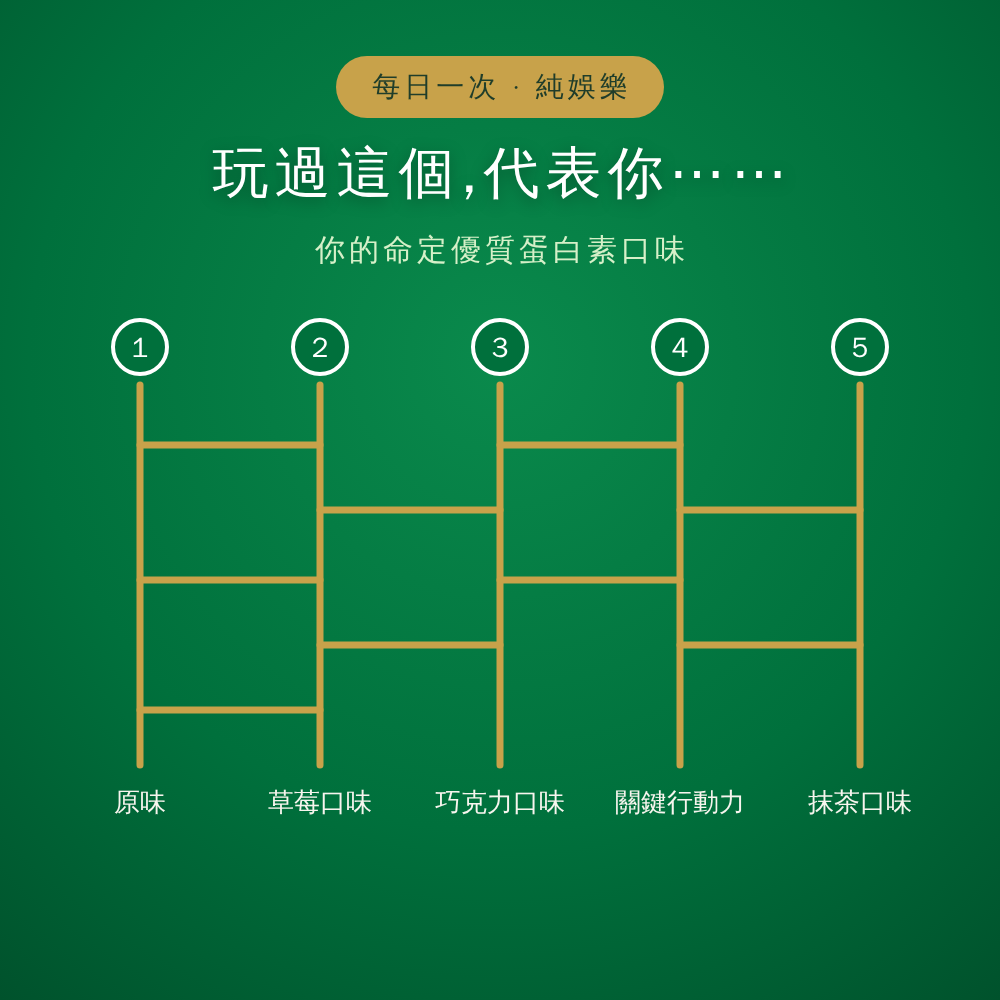
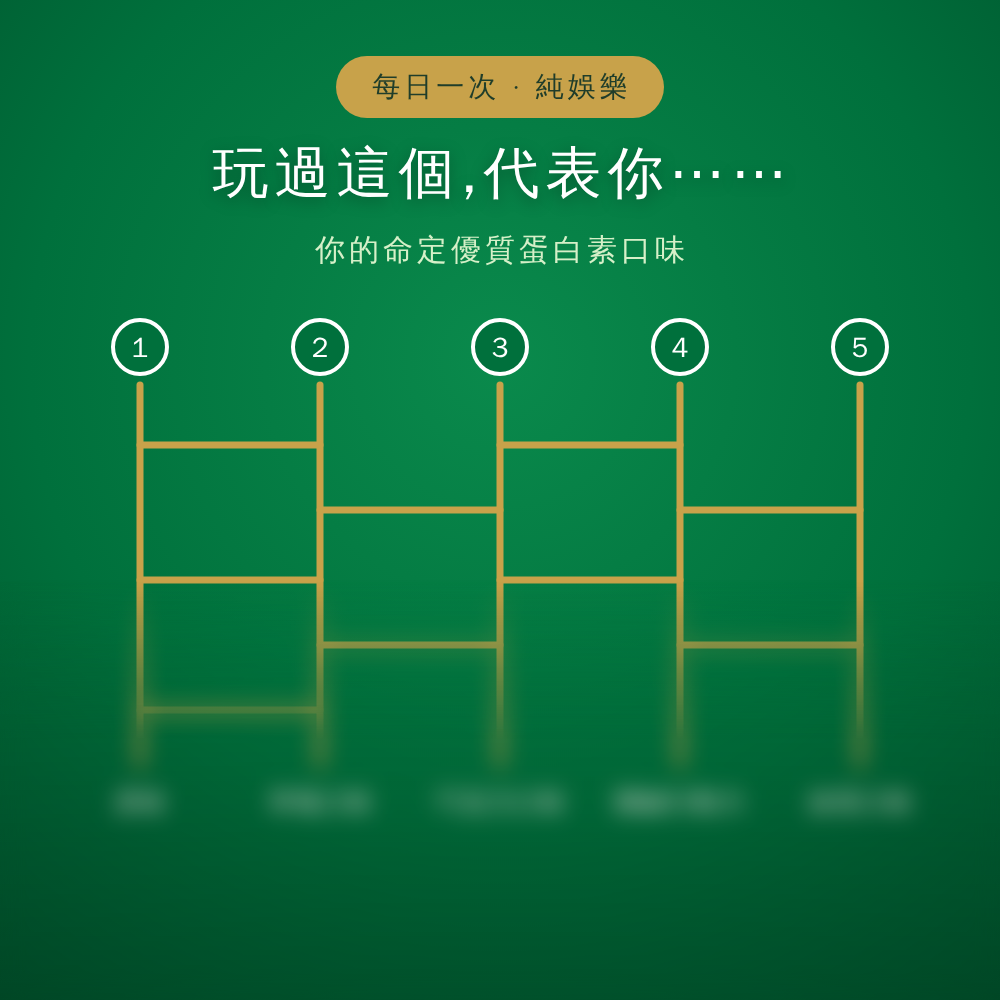
爬梯子卡片 hero:下半部漸進模糊,口味看不清楚才有期待感
backdrop-filter + 遮罩做漸進模糊(上緣清楚、越往下越糊),不是硬切一刀;
再壓一層極淡暗色,讓糊掉那半看起來像刻意的、不像沒對到焦。
標題與起點編號維持清楚。

Claude-Session: https://claude.ai/code/session_0163dLuJhBeeC9YiCLyyQuvx

Changed region(s): [[0.093, 0.589, 0.558, 0.837], [0.589, 0.589, 0.93, 0.837]]

diff --git a/amway-protein/ladder-card.html b/amway-protein/ladder-card.html
@@ -18,6 +18,19 @@
   .sub{font-size:30px;letter-spacing:4px;text-indent:4px;color:#D6F0C8}
   svg{margin-top:6px}
   .lbl{font-size:26px;fill:var(--cream)}
+
+  /* 下半部糊掉:口味看不清楚才有「想點進去看」的動機。
+     用 backdrop-filter + 遮罩做漸進模糊,上緣是清楚的、越往下越糊,
+     不是硬生生切一刀。 */
+  .veil{position:absolute;left:0;right:0;bottom:0;height:42%;
+        backdrop-filter:blur(11px);-webkit-backdrop-filter:blur(11px);
+        mask-image:linear-gradient(to bottom, transparent 0%, #000 38%, #000 100%);
+        -webkit-mask-image:linear-gradient(to bottom, transparent 0%, #000 38%, #000 100%);
+        pointer-events:none}
+  /* 再壓一層極淡的暗色,讓糊掉那半看起來像刻意的,不像沒對到焦 */
+  .veil-tint{position:absolute;left:0;right:0;bottom:0;height:42%;
+             background:linear-gradient(to bottom, rgba(0,50,26,0) 0%, rgba(0,50,26,.35) 100%);
+             pointer-events:none}
 </style>
 <div class="stage">
   <div class="badge">每日一次 · 純娛樂</div>
@@ -64,4 +77,7 @@
       <text x="810" y="516">抹茶口味</text>
     </g>
   </svg>
+
+  <div class="veil"></div>
+  <div class="veil-tint"></div>
 </div>
